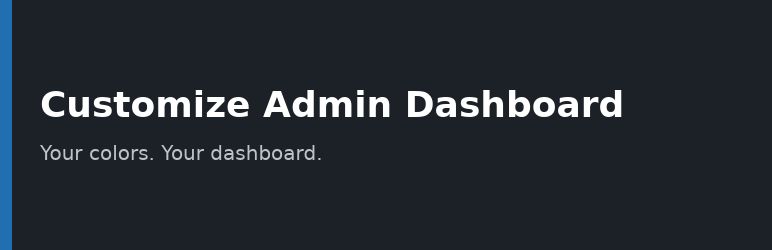
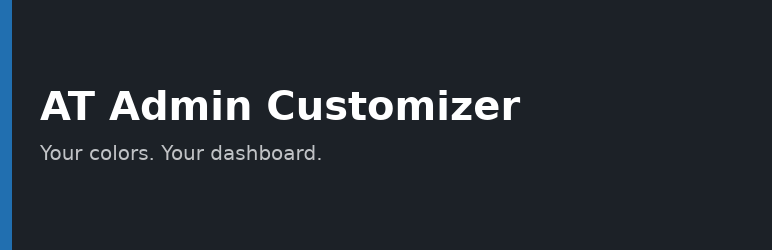
Rename to AT Admin Customizer (at-admin-customizer)
Align with AT Search Console branding before first WordPress.org
listing. Update plugin header, slug, text domain, workflows, assets,
and submission zip folder name.

Changed region(s): [[0.0311, 0.364, 0.8083, 0.476]]

diff --git a/includes/class-brand-colors.php b/includes/class-brand-colors.php
@@ -2,7 +2,7 @@
 /**
  * Admin brand colors: live panel + CSS custom properties.
  *
- * @package Customize_Admin_Dashboard
+ * @package AT_Admin_Customizer
  */
 
 if ( ! defined( 'ABSPATH' ) ) {
@@ -51,11 +51,11 @@ final class CAD_Brand_Colors {
 	public static function presets() {
 		return array(
 			'default' => array(
-				'label'  => __( 'WordPress default', 'customize-admin-dashboard' ),
+				'label'  => __( 'WordPress default', 'at-admin-customizer' ),
 				'colors' => self::defaults(),
 			),
 			'slate'   => array(
-				'label'  => __( 'Slate', 'customize-admin-dashboard' ),
+				'label'  => __( 'Slate', 'at-admin-customizer' ),
 				'colors' => array(
 					'menu_bg'        => '#2c3338',
 					'menu_text'      => '#f0f0f1',
@@ -66,7 +66,7 @@ final class CAD_Brand_Colors {
 				),
 			),
 			'ocean'   => array(
-				'label'  => __( 'Ocean', 'customize-admin-dashboard' ),
+				'label'  => __( 'Ocean', 'at-admin-customizer' ),
 				'colors' => array(
 					'menu_bg'        => '#0b3d4a',
 					'menu_text'      => '#e8f4f7',
@@ -77,7 +77,7 @@ final class CAD_Brand_Colors {
 				),
 			),
 			'forest'  => array(
-				'label'  => __( 'Forest', 'customize-admin-dashboard' ),
+				'label'  => __( 'Forest', 'at-admin-customizer' ),
 				'colors' => array(
 					'menu_bg'        => '#1e3323',
 					'menu_text'      => '#eef5ef',
@@ -88,7 +88,7 @@ final class CAD_Brand_Colors {
 				),
 			),
 			'warm'    => array(
-				'label'  => __( 'Warm', 'customize-admin-dashboard' ),
+				'label'  => __( 'Warm', 'at-admin-customizer' ),
 				'colors' => array(
 					'menu_bg'        => '#3a2a22',
 					'menu_text'      => '#faf3ee',
@@ -108,12 +108,12 @@ final class CAD_Brand_Colors {
 	 */
 	public static function field_labels() {
 		return array(
-			'menu_bg'        => __( 'Menu background', 'customize-admin-dashboard' ),
-			'menu_text'      => __( 'Menu text', 'customize-admin-dashboard' ),
-			'menu_highlight' => __( 'Menu highlight', 'customize-admin-dashboard' ),
-			'admin_bar'      => __( 'Admin bar', 'customize-admin-dashboard' ),
-			'primary_button' => __( 'Primary button', 'customize-admin-dashboard' ),
-			'link'           => __( 'Links', 'customize-admin-dashboard' ),
+			'menu_bg'        => __( 'Menu background', 'at-admin-customizer' ),
+			'menu_text'      => __( 'Menu text', 'at-admin-customizer' ),
+			'menu_highlight' => __( 'Menu highlight', 'at-admin-customizer' ),
+			'admin_bar'      => __( 'Admin bar', 'at-admin-customizer' ),
+			'primary_button' => __( 'Primary button', 'at-admin-customizer' ),
+			'link'           => __( 'Links', 'at-admin-customizer' ),
 		);
 	}
 
@@ -204,18 +204,18 @@ final class CAD_Brand_Colors {
 				'presets'  => self::presets(),
 				'labels'   => self::field_labels(),
 				'i18n'     => array(
-					'title'           => __( 'Admin colors', 'customize-admin-dashboard' ),
-					'subtitle'        => __( 'Choose a starter palette or pick your own. Changes preview live — save when you like them.', 'customize-admin-dashboard' ),
-					'starters'        => __( 'Starters', 'customize-admin-dashboard' ),
-					'yourColors'      => __( 'Your colors', 'customize-admin-dashboard' ),
-					'save'            => __( 'Save palette', 'customize-admin-dashboard' ),
-					'reset'           => __( 'Reset to default', 'customize-admin-dashboard' ),
-					'close'           => __( 'Close', 'customize-admin-dashboard' ),
-					'saved'           => __( 'Palette saved.', 'customize-admin-dashboard' ),
-					'resetDone'       => __( 'Reset to WordPress default.', 'customize-admin-dashboard' ),
-					'error'           => __( 'Could not save. Try again.', 'customize-admin-dashboard' ),
-					'openAria'        => __( 'Open admin color customizer', 'customize-admin-dashboard' ),
-					'saving'          => __( 'Saving…', 'customize-admin-dashboard' ),
+					'title'           => __( 'Admin colors', 'at-admin-customizer' ),
+					'subtitle'        => __( 'Choose a starter palette or pick your own. Changes preview live — save when you like them.', 'at-admin-customizer' ),
+					'starters'        => __( 'Starters', 'at-admin-customizer' ),
+					'yourColors'      => __( 'Your colors', 'at-admin-customizer' ),
+					'save'            => __( 'Save palette', 'at-admin-customizer' ),
+					'reset'           => __( 'Reset to default', 'at-admin-customizer' ),
+					'close'           => __( 'Close', 'at-admin-customizer' ),
+					'saved'           => __( 'Palette saved.', 'at-admin-customizer' ),
+					'resetDone'       => __( 'Reset to WordPress default.', 'at-admin-customizer' ),
+					'error'           => __( 'Could not save. Try again.', 'at-admin-customizer' ),
+					'openAria'        => __( 'Open admin color customizer', 'at-admin-customizer' ),
+					'saving'          => __( 'Saving…', 'at-admin-customizer' ),
 				),
 			)
 		);

diff --git a/includes/class-plugin.php b/includes/class-plugin.php
@@ -2,7 +2,7 @@
 /**
  * Plugin bootstrap and settings screen.
  *
- * @package Customize_Admin_Dashboard
+ * @package AT_Admin_Customizer
  */
 
 if ( ! defined( 'ABSPATH' ) ) {
@@ -40,14 +40,14 @@ final class CAD_Plugin {
 	}
 
 	/**
-	 * Settings → Customize Admin.
+	 * Settings → AT Admin Customizer.
 	 */
 	public function register_settings_page() {
 		add_options_page(
-			__( 'Customize Admin Dashboard', 'customize-admin-dashboard' ),
-			__( 'Customize Admin', 'customize-admin-dashboard' ),
+			__( 'AT Admin Customizer', 'at-admin-customizer' ),
+			__( 'AT Admin Customizer', 'at-admin-customizer' ),
 			'manage_options',
-			'customize-admin-dashboard',
+			'at-admin-customizer',
 			array( $this, 'render_settings_page' )
 		);
 	}
@@ -59,13 +59,13 @@ final class CAD_Plugin {
 	 * @return array
 	 */
 	public function plugin_action_links( $links ) {
-		$url = admin_url( 'options-general.php?page=customize-admin-dashboard' );
+		$url = admin_url( 'options-general.php?page=at-admin-customizer' );
 		array_unshift(
 			$links,
 			sprintf(
 				'<a href="%s">%s</a>',
 				esc_url( $url ),
-				esc_html__( 'Settings', 'customize-admin-dashboard' )
+				esc_html__( 'Settings', 'at-admin-customizer' )
 			)
 		);
 		return $links;
@@ -76,28 +76,28 @@ final class CAD_Plugin {
 	 */
 	public function render_settings_page() {
 		if ( ! current_user_can( 'manage_options' ) ) {
-			wp_die( esc_html__( 'You do not have sufficient permissions to access this page.', 'customize-admin-dashboard' ) );
+			wp_die( esc_html__( 'You do not have sufficient permissions to access this page.', 'at-admin-customizer' ) );
 		}
 
 		$this->widgets->maybe_save_settings();
 		$widget_settings = $this->widgets->get_settings();
 		?>
 		<div class="wrap cad-settings-wrap">
-			<h1><?php echo esc_html__( 'Customize Admin Dashboard', 'customize-admin-dashboard' ); ?></h1>
+			<h1><?php echo esc_html__( 'AT Admin Customizer', 'at-admin-customizer' ); ?></h1>
 
 			<div class="cad-settings-card">
-				<h2><?php echo esc_html__( 'Admin colors', 'customize-admin-dashboard' ); ?></h2>
-				<p><?php echo esc_html__( 'Pick your own palette right in the admin. Use the color button in the bottom-right corner of any admin screen, or open the panel from here.', 'customize-admin-dashboard' ); ?></p>
+				<h2><?php echo esc_html__( 'Admin colors', 'at-admin-customizer' ); ?></h2>
+				<p><?php echo esc_html__( 'Pick your own palette right in the admin. Use the color button in the bottom-right corner of any admin screen, or open the panel from here.', 'at-admin-customizer' ); ?></p>
 				<p>
 					<button type="button" class="button button-primary" id="cad-open-color-panel">
-						<?php echo esc_html__( 'Open color customizer', 'customize-admin-dashboard' ); ?>
+						<?php echo esc_html__( 'Open color customizer', 'at-admin-customizer' ); ?>
 					</button>
 				</p>
 			</div>
 
 			<div class="cad-settings-card">
-				<h2><?php echo esc_html__( 'Dashboard widgets', 'customize-admin-dashboard' ); ?></h2>
-				<p><?php echo esc_html__( 'Add up to two custom dashboard boxes, choose which roles see them, and optionally hide the default WordPress dashboard widgets.', 'customize-admin-dashboard' ); ?></p>
+				<h2><?php echo esc_html__( 'Dashboard widgets', 'at-admin-customizer' ); ?></h2>
+				<p><?php echo esc_html__( 'Add up to two custom dashboard boxes, choose which roles see them, and optionally hide the default WordPress dashboard widgets.', 'at-admin-customizer' ); ?></p>
 				<?php $this->widgets->render_settings_form( $widget_settings ); ?>
 			</div>
 		</div>

diff --git a/includes/class-dashboard-widgets.php b/includes/class-dashboard-widgets.php
@@ -2,7 +2,7 @@
 /**
  * Custom dashboard widgets (legacy feature, cleaned up).
  *
- * @package Customize_Admin_Dashboard
+ * @package AT_Admin_Customizer
  */
 
 if ( ! defined( 'ABSPATH' ) ) {
@@ -131,7 +131,7 @@ final class CAD_Dashboard_Widgets {
 		add_settings_error(
 			'cad_dashboard_widgets',
 			'cad_saved',
-			__( 'Dashboard widget settings saved.', 'customize-admin-dashboard' ),
+			__( 'Dashboard widget settings saved.', 'at-admin-customizer' ),
 			'success'
 		);
 	}
@@ -151,7 +151,7 @@ final class CAD_Dashboard_Widgets {
 			<p>
 				<label>
 					<input type="checkbox" name="cad_remove_defaults" value="1" <?php checked( ! empty( $settings['remove_defaults'] ) ); ?> />
-					<?php echo esc_html__( 'Hide default WordPress dashboard widgets', 'customize-admin-dashboard' ); ?>
+					<?php echo esc_html__( 'Hide default WordPress dashboard widgets', 'at-admin-customizer' ); ?>
 				</label>
 			</p>
 
@@ -162,7 +162,7 @@ final class CAD_Dashboard_Widgets {
 						echo esc_html(
 							sprintf(
 								/* translators: %d: box number */
-								__( 'Custom box %d', 'customize-admin-dashboard' ),
+								__( 'Custom box %d', 'at-admin-customizer' ),
 								$index + 1
 							)
 						);
@@ -170,12 +170,12 @@ final class CAD_Dashboard_Widgets {
 					</legend>
 					<p>
 						<label>
-							<?php echo esc_html__( 'Title', 'customize-admin-dashboard' ); ?><br />
+							<?php echo esc_html__( 'Title', 'at-admin-customizer' ); ?><br />
 							<input type="text" class="regular-text" name="<?php echo esc_attr( 'cad_box_' . $index . '_title' ); ?>" value="<?php echo esc_attr( $box['title'] ); ?>" />
 						</label>
 					</p>
 					<p>
-						<label><?php echo esc_html__( 'Content', 'customize-admin-dashboard' ); ?></label>
+						<label><?php echo esc_html__( 'Content', 'at-admin-customizer' ); ?></label>
 					</p>
 					<?php
 					wp_editor(
@@ -188,7 +188,7 @@ final class CAD_Dashboard_Widgets {
 						)
 					);
 					?>
-					<p><?php echo esc_html__( 'Visible to roles:', 'customize-admin-dashboard' ); ?></p>
+					<p><?php echo esc_html__( 'Visible to roles:', 'at-admin-customizer' ); ?></p>
 					<ul class="cad-role-list">
 						<?php foreach ( $roles as $role_key => $role ) : ?>
 							<li>
@@ -207,7 +207,7 @@ final class CAD_Dashboard_Widgets {
 				</fieldset>
 			<?php endforeach; ?>
 
-			<?php submit_button( __( 'Save widget settings', 'customize-admin-dashboard' ) ); ?>
+			<?php submit_button( __( 'Save widget settings', 'at-admin-customizer' ) ); ?>
 		</form>
 		<?php
 	}
@@ -232,7 +232,7 @@ final class CAD_Dashboard_Widgets {
 			$id = 'cad_custom_box_' . $index;
 			wp_add_dashboard_widget(
 				$id,
-				$box['title'] ? $box['title'] : __( 'Custom box', 'customize-admin-dashboard' ),
+				$box['title'] ? $box['title'] : __( 'Custom box', 'at-admin-customizer' ),
 				function () use ( $box ) {
 					echo wp_kses_post( apply_filters( 'the_content', $box['content'] ) );
 				},

diff --git a/at-admin-customizer.php b/at-admin-customizer.php
@@ -1,12 +1,12 @@
 <?php
 /**
- * Plugin Name: Customize Admin Dashboard
- * Plugin URI:  https://wordpress.org/plugins/customize-admin-dashboard/
+ * Plugin Name: AT Admin Customizer
+ * Plugin URI:  https://wordpress.org/plugins/at-admin-customizer/
  * Description: Brand your WordPress admin with your own colors, and curate dashboard widgets — lightweight, no white-label bloat.
  * Version:     1.1.0
  * Author:      Adrian Toro
  * Author URI:  https://adriantoro.com
- * Text Domain: customize-admin-dashboard
+ * Text Domain: at-admin-customizer
  * Domain Path: /languages
  * Requires at least: 6.0
  * Requires PHP: 7.4
